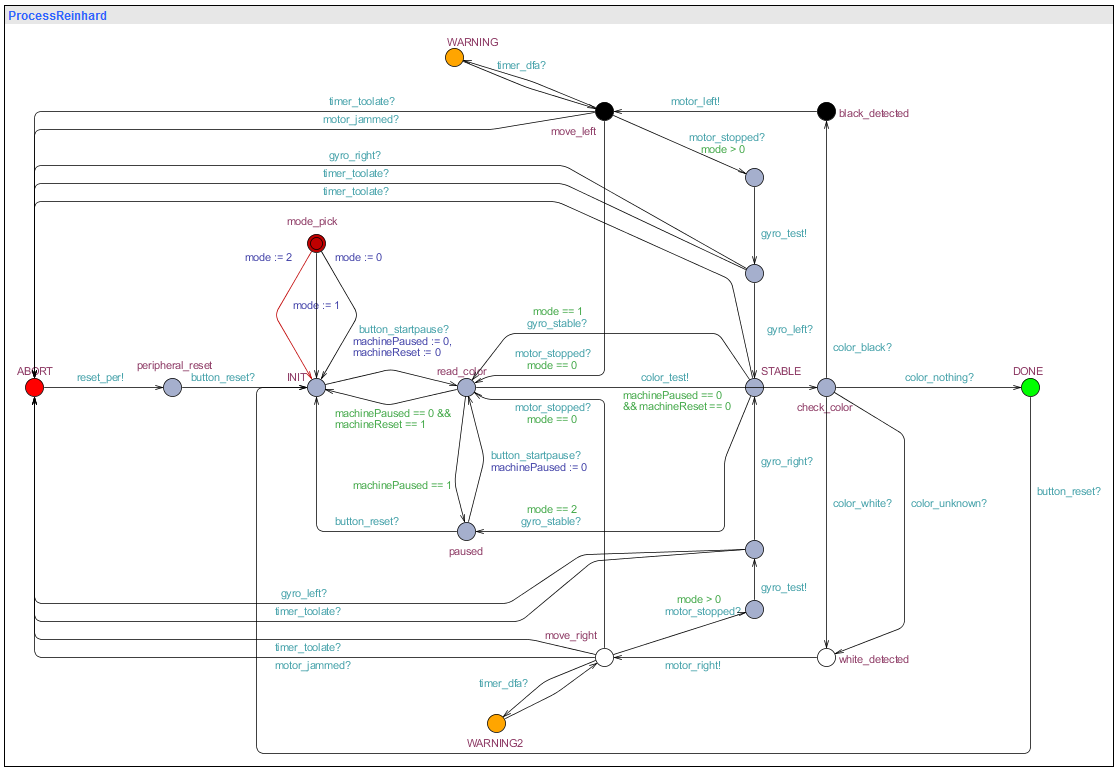
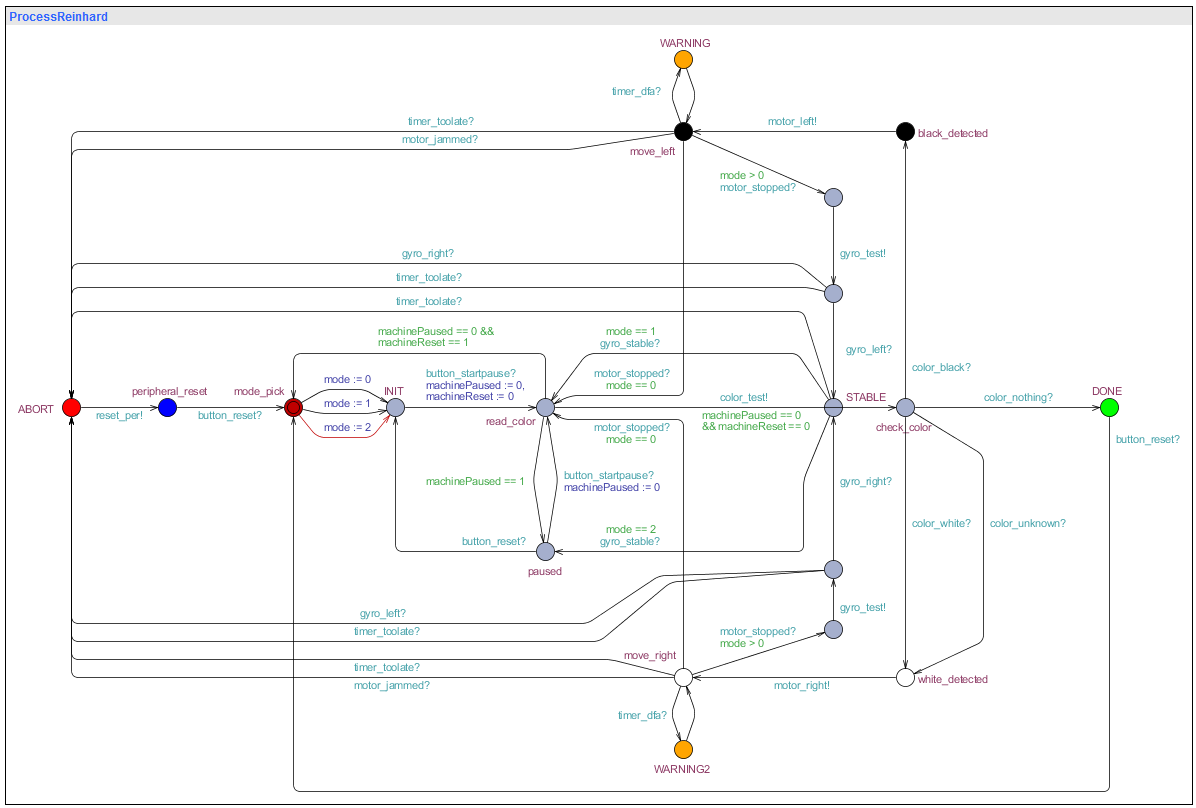
(SOFTWARE SPECS) Updated UPPAAL model, general consistency corrections. Also removed subsubsections from verification.

diff --git a/Phases/Software Specification/SoftwareSpecification.tex b/Phases/Software Specification/SoftwareSpecification.tex
@@ -59,26 +59,27 @@
 \maketitle
 
 \section{Introduction}
-After having designed the machine, we are able to specify how our software should behave. We do this by describing the software in a state machine with abstract states. This state machine also implements the different operation modes. After this we characterise the distinct inputs and outputs. We will convert the state diagram into a working UPPAAL model and explain the working systems in detail. Finally we explain the verification of our model. This chapter is called the software specification.
+After having designed the machine, we are able to specify how our software should behave. We do this by describing the software in a state machine with abstract states. This state machine also implements the different operation modes. After this we characterise the distinct inputs and outputs. We will convert the state diagram into a working UPPAAL model and explain its different systems in detail. Finally we explain the verification of our model.
 
 \section{Operation modes}
 The gyroscope can be quite a bottleneck in the sorting process, as it is rather slow. If we want to sort very fast, we should skip the input from the gyroscope and sort the discs immediately after each other. Therefore, we want to implement 2 modes: a fast mode in which we do not check for input from the gyroscope and thus do not check if the disc actually reaches the tray, and a slower safe mode, where we check for input from the gyroscope and we can make sure that discs do reach the tray. Besides this, we want to make an additional incremental mode for debug purposes, in which the user has to press a button for the machine to sort the next disc.
 
 \subsection{Fast mode}
-The machine starts in a resting state. If the left button is pressed in this state, the machine should go to the read color state. In this state, the machine checks which color disc is present on top of the light sensor. There are four different transitions the machine can make at this point, depended on the detected colour. If the machine is black or white, it should go to a respective state in which the motor is rotated accordingly. When the motor has finished moving, the machine simply returns to the read color state. The machine can be paused by pressing the Start/Pause button anytime during the sorting process. The machine then goes to a paused state as soon as it enters the read color state and waits for the Start/Pause again to return to the checking process.
+This mode can be accessed by pressing the left button during mode selection. The machine starts in a resting state. If the left button is pressed in this state, the machine should go to the read color state. In this state, the machine checks which color disc is present on top of the light sensor. There are four different transitions the machine can make at this point, depended on the detected colour. If the machine is black or white, it should go to a respective state in which the motor is rotated accordingly. When the motor has finished moving, the machine simply returns to the read color state and repeats the process until no more discs are detected. The user should be able to pause the machine by pressing the START/PAUSE button anytime during the sorting process. The machine should then go to a paused state as soon as it enters the read color state and wait for a press of the START/PAUSE button again to continue the checking process. The user should also be able to abort the machine at any time using the ABORT button and reset it afterwards to let the machine return to the mode selection state.
 
 \newpage
 
 \subsection{Safe mode}
-This mode can be accessed by pressing the middle button in the mode selection state (START/PAUZE) The safe mode is exactly the same as the fast mode, with a few additional safety checks. This means that it has the same assumptions according to the input. There is still an arrow from every state except the initial state to the abort state for when the ABORT button is pressed. There are two additional states. One for each colour, black or white. After the motor is finished turning, it enters a state in which it waits for input from the gyroscope (G), which can indicate a disc that felt to the right (R) or to the left (L). When the input is correct, it goes to the state in which the colour is checked. When the input is wrong (Exception) (wrong side, no input at all after a while), the machine goes to the abort state.
+This mode can be accessed by pressing the middle button during mode selection. The safe mode is operates similarly to the fast mode, with some additional safety checks. After the motor has finished turning, the machine should enter a state in which it waits for input from the gyroscope to confirm that the disc arrived in the correct tray. Based on this input, the machine should be able to detect most errors described in Machine Design. 
+
 \subsection{Incremental mode}
-This mode can be accessed by pushing the rightmost button. The incremental mode is again almost the same as the safe mode, so again the same assumptions about the input and the state machine, but now there is 1 extra state between the ingoing arrows to the state in which the colour is checked. In this state, the machine waits for a press on a button, the START/STOP button (S/P) to continue. If that button is pressed, it goes to the state in which the colour is checked. All the ingoing arrow that were going to the colour-check state are now going to the wait-for-button-press state. There is 1 exception for this. From the resting state, you go to the colour-check state immediately after a press on the button. It would be silly if you would have to press that button twice for something to happen.
+This mode can be accessed by pressing the right button during mode selection. The incremental mode is very similar to the safe mode. The difference is that the machine should go to a seperate state when it is finished sorting a single disc. In this state, the machine waits for a press on the START/STOP button to continue. Then, it simply continues the sorting process.
 
 \subsection{Colour sensor calibration}
-This mode can be accessed by pushing the up button. Before accessing this state, the user should put a black disc and a white disc in the machine, ready to be sorted. Above these 2 discs, there should be nothing. When this mode is entered, the colour sensor reads the values of a black disc, a white disc and nothing and saves them to use these values later in a sorting process.
+This feature can be accessed by pressing the up button during mode selection. Before accessing this state, the user should put a black disc and a white disc in the machine in that order. The rest of the tube should be left empty and tilted upwards. When this mode is entered, the colour sensor reads the values of a black disc, a white disc and nothing and saves them to use these values later in a sorting process.
 
 \subsection{Exit}
-By pressing the down button (RESET), the program quits.
+By pressing the down button during mode selection, the program quits.
 
 \section{Signals}
 \subsection{Inputs:}
@@ -131,18 +132,18 @@ An UPPAAL model consist of multiple systems that communicate over several channe
 \begin{figure}[H]
 	\centering
 	\includegraphics[width=150mm]{mainprocess}
-	\caption{This state machine defines the behaviour of the software. The three modes of our machine have been embedded into the figure. Black coloured transitions are done in all modes.}
+	\caption{The main process in the UPPAAL model.}
 \end{figure}
 
 \subsection{Main process}
 \subsubsection{Choosing the mode}
-The initial state is mode\_pick, which is not present in the state machine. In this mode one of the three operation modes is chosen. This is important for the verification process, because the UPPAAL model uses an internal variable to store the mode, whereas the state machine indicates the different modes with colours. If it is not possible to set this variable in the model itself, the verification process will only verify if a query holds for one mode.
+The initial state is mode\_pick. In this mode one of the three operation modes is chosen. This is important for the verification process, because the UPPAAL model uses an internal variable to store the mode, whereas the state machine indicates the different modes with colours. If it is not possible to set this variable in the model itself, the verification process will only verify if a query holds for one mode.
 
 \subsubsection{Initialiation}
-Upon choosing a mode, we enter the state INIT, which is equivalent to the initial state in the state machine. Here, the model waits for the button\_startpause signal from ProcessButtons. Also, it sets the machinePaused and machineReset variable to 0, which ensures that the model does not immediately pause or reset.
+Upon choosing a mode, we enter the state INIT, which is equivalent to the initial state in the state machine. Here, the model waits for the button\_startpause signal from ProcessButtons. When the signal is received, it sets the machinePaused and machineReset variable to 0, which ensures that the model does not immediately pause or reset and moves to the next state.
 
 \subsubsection{Reading colours}
-Upon leaving the INIT state we enter the read\_color state(read in the state machine). Whenever the machinePaused variable is 1 in the read\_color state, the model goes to the paused state. If the machineReset variable is 1, the machine returns to the INIT state, but this has the lower priority. If both of these are 0, the color\_test signal is send and the model transitions to the check\_color state.  In the check\_color state it waits for a signal of the ColorSensor system depending on whether there is a disc and which colour the disc has. Depending on the colour, it goes to one of two parts of the main system, one for each distinct colour (black or white). We will describe one of these parts as they are mirrored. Upon receiving the signal of a colour, the model transitions to a detected state. Here, it sends a signal to ProcessMotor to start moving in the appropriate direction and goes into a move state. The transition the model makes here is dependent on the mode variable.
+Upon leaving the INIT state we enter the read\_color state (read in the state machine). Whenever the machinePaused variable is 1 in the read\_color state, the model goes to the paused state. If the machineReset variable is 1, the machine returns to the mode\_pick state, but this has the lower priority. If both of these are 0, the color\_test signal is send and the model transitions to the check\_color state.  In the check\_color state it waits for a signal of the ColorSensor system depending on whether there is a disc and which colour the disc has. Depending on the colour, it goes to one of two parts of the main system, one for each distinct colour (black or white). We will describe one of these parts as they are mirrored. Upon receiving the signal of a colour, the model transitions to a detected state. Here, it sends a signal to ProcessMotor to start moving in the appropriate direction and goes into a move state. The transition the model makes here is dependent on the mode variable.
 
 \subsubsection{Check sequence}
 If mode is not 0, indicating that the system is in the safe or incremental mode, it will add a check sequence using the gyroscope. After the signal from the motor is received that it has stopped, the main system will send a test signal to the GyroSensor waiting for a signal back. If the correct signal is received back, indicating that the disc has arrived in the correct tray, it will return to read\_color state. If mode is 0, indicating that the system is in fast mode, this check is skipped and the model returns to the read\_color state from the move state as soon as it receives the motor\_stopped signal from ProcessMotor.
@@ -151,7 +152,7 @@ If mode is not 0, indicating that the system is in the safe or incremental mode,
 When the model receives the color\_nothing signal from ProcessColorSensor, the machine is finished and the model goes to the DONE state. Here it waits for the button\_reset signal and returns to the initial state.
 
 \subsubsection{Exceptions}
-In our machine design is it specified that there is an ABORT button present that will stop the whole machine almost immediately. However, we have chosen not to include the abort button in our UPPAAL model as a possible transition for every state because this would be rather cumbersome and just a small implementation. We have however chosen to include possible exceptions such as a jammed motor or a signal that has not arrived in decent time. These transitions will lead the system into the ABORT state. In this state the process waits for the reset button to give a signal, after which it will reset the other processes and return to the intitial state. Note that it is not required to actually reset the gyroscope in the actual machine, just in the UPPAAL model. Non-fatal exceptions are also represented in the model. Deviating average detection time is represented in the states WARNING and WARNING2, which the model reaches when the timer\_dfa is send from ProcessTimer. Process ColorSensor can also send a color\_unknown signal, which sends the machine to WARNING3. These warning states simply return to the state they were detected in and let the model continue.
+In our machine design is it specified that there is an ABORT button present that will stop the whole machine almost immediately. However, we have chosen not to include the abort button in our UPPAAL model as a possible transition for every state because this would be rather cumbersome and just a small implementation. We have however chosen to include the relevant exceptions specified in Machine Design. These transitions will lead the system into the ABORT state. In this state the process waits for the reset button to give a signal, after which it will reset the other processes and return to the initial state. Note that it is not required to actually reset the gyroscope in the actual machine, just in the UPPAAL model. Non-fatal exceptions are also represented in the model. Deviating average detection time is represented in the states WARNING and WARNING2, which the model reaches when the timer\_dfa is send from ProcessTimer. These warning states simply return to the state they were detected in and let the model continue.
 
 \subsection{Subprocesses}
 The following are all subprocesses that the main process depends on:
@@ -168,23 +169,23 @@ The following are all subprocesses that the main process depends on:
 
 \subsubsection{ProcessPauseListener} and \textbf{ProcessResetListener} continuously listen to the $button\_startpause$ and $button\_reset$ signals from ProcessButtons. When they detect the respective signals, they set the respective variables to 1 to alert the main process that the button is pressed.
 
-\begin{figure}
+\begin{figure}[H]
 \centering
 \begin{subfigure}{0.1\textwidth}
 \centering
-\includegraphics[height=55mm]{processcolorsensor}
+\includegraphics[height=50mm]{processcolorsensor}
 \caption{Colour sensor}
 \end{subfigure}
 \hfill
 \begin{subfigure}{0.3\textwidth}
 \centering
-\includegraphics[height=55mm]{processmotor}
+\includegraphics[height=50mm]{processmotor}
 \caption{Motor}
 \end{subfigure}
 \hfill
 \begin{subfigure}{0.3\textwidth}
 \centering
-\includegraphics[height=55mm]{processgyrosensor}
+\includegraphics[height=50mm]{processgyrosensor}
 \caption{Gyroscope}
 \end{subfigure}
 
@@ -202,56 +203,67 @@ The following are all subprocesses that the main process depends on:
 
 \begin{subfigure}{0.45\textwidth}
 \centering
-\includegraphics[height=50mm]{processpauselistener}
+\includegraphics[height=40mm]{processpauselistener}
 \caption{Pause listener}
 \end{subfigure}
 \hfill
 \begin{subfigure}{0.45\textwidth}
 \centering
-\includegraphics[height=50mm]{processresetlistener}
+\includegraphics[height=40mm]{processresetlistener}
 \caption{Reset listener}
 \end{subfigure}
 \caption{Subprocesses}
 \end{figure}
 
 \section{Verification}
-The main reason for recreating the state machine in UPPAAL was to allow extensive verification of the model. With UPPAAL we can verify the events like deadlock will never occur. The UPPAAL query language is a minimalistic but functional language to specify these properties. We use the following queries to verify our model:
+The main reason for recreating the state machine in UPPAAL was to allow extensive verification of the model. With UPPAAL we can verify whether certain queries hold for our model. The UPPAAL query language is a minimalistic but functional language to specify these properties. We use the following queries to verify our model:
 
-\subsubsection{Abort state reachability}
-Query: E$<>$ ProcessReinhard.ABORT \\
-Description: There exists a path where the system reaches the ABORT state.\\
-We want to ensure that the machine halts in case of a fatal error. This check ensures that it is theoretically possible for a fatal error to occur and jump to the ABORT state.
+\subsection{No deadlock}
+Query: A[] not deadlock \\
+Description: The system never deadlocks in any case \\
+The machine will never stop responding to input.
 
-\subsubsection{Peripheral reset}
-Query: A[] (ProcessReinhard.paused or ProcessReinhard.INIT) imply (ProcessMotor.INIT and ProcessGyroSensor.INIT) \\
-Description: Whenever the system is in the paused or initialisation state, the motor and gyro sensor must be in their initial state. \\
-The goal is this check is twofold: We want to ensure that all peripherals are idle when the machine is in the paused state or has not yet started, and we have to be certain that after reaching the ABORT state, all peripherals are correctly reset. If we would leave the gyroscope in its left or right state, we would cause deadlock in the next cycle. Worse still, leaving the motor running after an ABORT could harm to machine.
-
-\subsubsection{Full speed independent of gyroscope}
-Query: A[] mode == 0 imply ProcessGyroSensor.INIT \\
-Description: When in full speed mode, the system must leave the gyroscope in its initial state. \\
-Full speed mode is supposed to ignore the gyroscope to speed up the sorting process. Here we check if the machine correctly uses the mode setting.
-
-\subsubsection{DONE state reachability}
-Query: E$<>$ ProcessReinhard.DONE \\
-Description: There exists a path where the system reaches the ABORT state \\
-This check ensures that the machine can eventually finish the sorting process.
-
-\subsubsection{Machine pause justify}
-Query: A[] ((ProcessReinhard.paused and mode != 2) imply machinePaused==1) \\
-Description: Whenever the system is in the paused state and not in incremental mode, machinePaused must be set to 1. \\
-Verifies that in the full speed and safe modes, the machine only reaches the paused state when the pause button was pressed beforehand.
-
-\subsubsection{Valid mode specified}
+\subsection{Valid mode specified}
 Query: A[] mode==0 or mode==1 or mode==2 \\
 Description: Mode must be one of: full speed, safe or incremental. \\
 The mode value must be valid.
 
-\subsubsection{No deadlock}
-Query: A[] not deadlock \\
-Description: The system never deadlocks in any case \\
+\subsection{DONE state reachability}
+Query: E$<>$ ProcessReinhard.DONE \\
+Description: There exists a path where the system reaches the ABORT state \\
+This check ensures that the machine can eventually finish the sorting process.
+
+\subsection{ABORT state reachability}
+Query: E$<>$ ProcessReinhard.ABORT \\
+Description: There exists a path where the system reaches the ABORT state.\\
+We want to ensure that the machine halts in case of a fatal error. This check ensures that it is theoretically possible for a fatal error to occur and jump to the ABORT state.
+
+\subsection{ABORT state avoidability}
+Query: E[] not ProcessReinhard.ABORT \\
+Description: There exists a path where the system does not reach the ABORT state.\\
+We want to ensure that the machine is capable of running correctly without encountering fatal errors. This check ensures that it is possible to complete the sorting process error-free.
+
+\subsection{Peripheral reset}
+Query: A[] (ProcessReinhard.paused or ProcessReinhard.INIT) imply (ProcessMotor.INIT and ProcessGyroSensor.INIT) \\
+Description: Whenever the system is in the paused or initialisation state, the motor and gyro sensor must be in their initial state. \\
+The goal is this check is twofold: We want to ensure that all peripherals are idle when the machine is in the paused state or has not yet started, and we have to be certain that after reaching the ABORT state, all peripherals are correctly reset. If we would leave the gyroscope in its left or right state, we would cause deadlock in the next cycle. Worse still, leaving the motor running after an ABORT could harm to machine.
+
+\subsection{Fast mode independent of gyroscope}
+Query: A[] mode == 0 imply ProcessGyroSensor.INIT \\
+Description: When in full speed mode, the system must leave the gyroscope in its initial state. \\
+Full speed mode is supposed to ignore the gyroscope to speed up the sorting process. Here we check if the machine correctly uses the mode setting.
+
+\subsection{Safe modes dependent on gyroscope}
+Query: E$<>$ (mode != 0) imply (not ProcessGyroSensor.INIT) \\
+Description: When the machine is not in fast mode, the gyroscope is used by the system. \\
+In safe and incremental mode, the system is supposed to check the gyroscope before returning to the color reading state. This query checks if the gyroscope leaves its initial state, and is hence used, in these modes.
+
+\subsection{Machine pause justify}
+Query: A[] ((ProcessReinhard.paused and mode != 2) imply machinePaused==1) \\
+Description: Whenever the system is in the paused state and not in incremental mode, machinePaused must be set to 1. \\
+Verifies that in the full speed and safe modes, the machine only reaches the paused state when the pause button was pressed beforehand.
 
 \section{Conclusion}
-this chapter provided the information about the behaviour of our software. We introduced our state machine diagram which we then implemented in UPPAAL. We clearly explained the working of our systems in UPPAAL and verified our model using this program. This part is used as the basis for the design of the software and is very important.
+This chapter provided the information about the behaviour of our software. We introduced our state machine diagram which we then implemented in UPPAAL. We clearly explained the working of our systems in UPPAAL and verified our model using this program. This part is used as the basis for the design of the software and is very important.
 
 \end{document}
